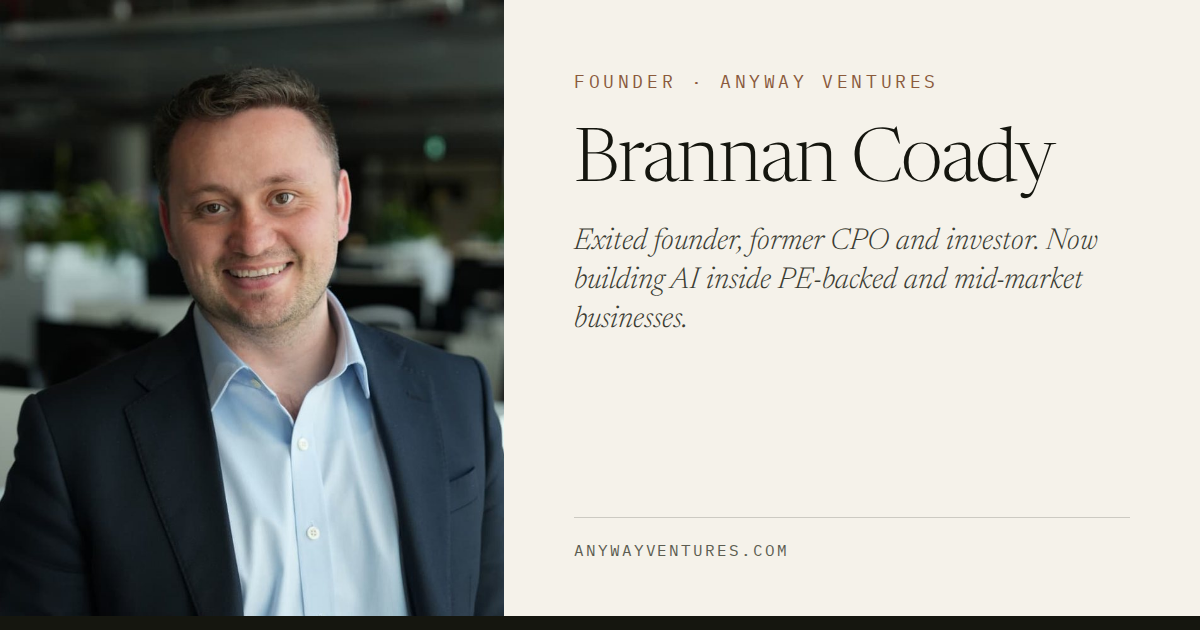
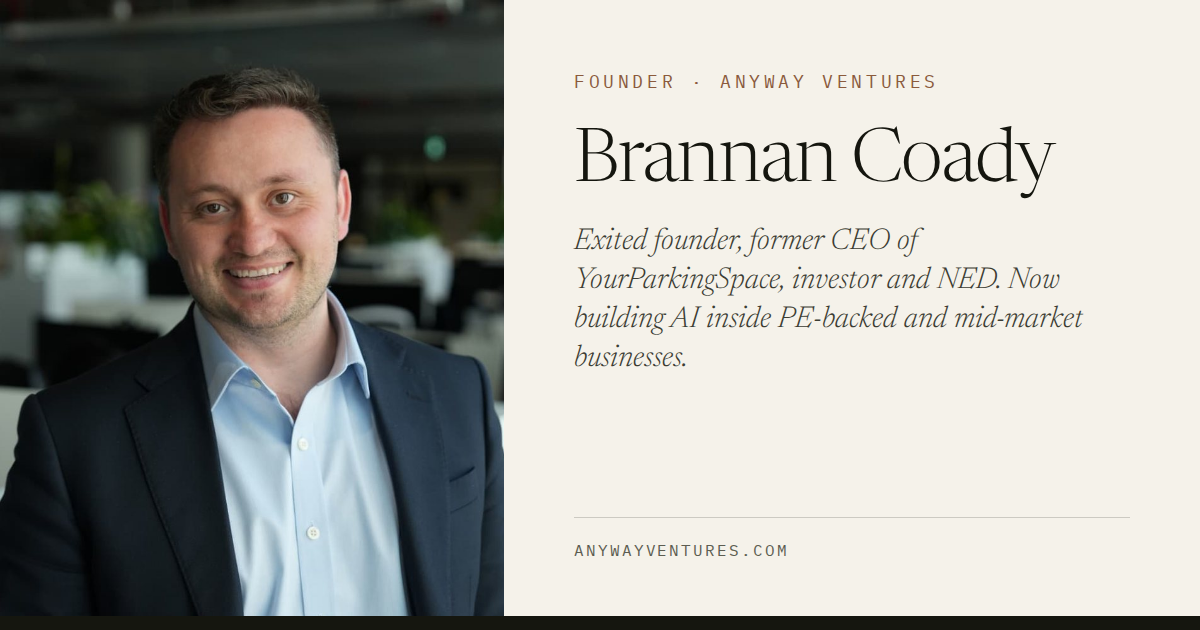
Correct career history from LinkedIn across the site
- YourParkingSpace: CPO (2016), COO (2022), CEO (2023 to 2024), not
  'CPO and executive director'; Flowbird Group executive committee and
  the sale to EasyPark (now Arrive) added
- Netsells dates corrected to 2010 to 2023 (thirteen years), GP Bullhound
  ranking and wider client list added
- Railguard: co-founder, sold to Trainline in 2019; Wombat marked exited;
  The Good Golf Company role is COO; Anyway Ventures from 2026
- Track record regrouped into operating roles and investments/boards,
  with current holdings from LinkedIn
- Home stats now 16 years, 4 exits, 15 current investments and board
  roles; unverified 'FTSE 100 acquirers' claim removed
- Person JSON-LD, meta description, llms.txt, author box, landing pages,
  three articles and the About share card updated to match

Claude-Session: https://claude.ai/code/session_01VDwvbLqM1kkCQ47dw2bsmj

Changed region(s): [[0.4625, 0.3619, 0.925, 0.6032]]

diff --git a/src/pages/llms.txt.ts b/src/pages/llms.txt.ts
@@ -13,7 +13,7 @@ export const GET: APIRoute = async () => {
   };
   const text = `# ${site.name}
 
-> ${site.legalName} is an AI operating partner for private-equity-backed and mid-market businesses in the UK. It does technology, product and AI due diligence before a deal, acts as a fractional AI operating partner across a fund's portfolio, and embeds inside companies to put internal tooling, automation and AI agents into production with their teams. It is led by Brannan Coady, an exited founder (co-founder and CEO of Netsells, which merged with hedgehog lab backed by BGF), former Chief Product Officer of YourParkingSpace, investor and non-executive director, with a small senior bench. Based in York, working UK-wide.
+> ${site.legalName} is an AI operating partner for private-equity-backed and mid-market businesses in the UK. It does technology, product and AI due diligence before a deal, acts as a fractional AI operating partner across a fund's portfolio, and embeds inside companies to put internal tooling, automation and AI agents into production with their teams. It is led by Brannan Coady, an exited founder (co-founder and CEO of Netsells, which merged with hedgehog lab backed by BGF), former CEO of YourParkingSpace (sold as part of Flowbird Group to EasyPark, now Arrive), co-founder of Railguard (sold to Trainline), investor and non-executive director, with a small senior bench. Based in York, working UK-wide.
 
 Who it is for: PE deal teams, fund partners and portfolio directors at lower-mid-market funds; CEOs, COOs and owner-managers of mid-market businesses.
 

diff --git a/src/lib/schema.ts b/src/lib/schema.ts
@@ -78,12 +78,12 @@ export function person() {
     name: 'Brannan Coady',
     givenName: 'Brannan',
     familyName: 'Coady',
-    jobTitle: 'Founder',
+    jobTitle: 'Founding Partner',
     url: abs('/brannan-coady'),
     image: { '@type': 'ImageObject', url: abs('/images/brannan-coady.jpg'), width: 800, height: 1000, caption: 'Brannan Coady' },
     worksFor: { '@id': ids.org },
     description:
-      'Co-founder and former CEO of Netsells (merged with hedgehog lab, backed by BGF), former Chief Product Officer and executive director at YourParkingSpace, investor and non-executive director. Founder of Anyway Ventures.',
+      'Co-founder and former CEO of Netsells (merged with hedgehog lab, backed by BGF), former Chief Product Officer, COO and CEO of YourParkingSpace, former member of the Flowbird Group executive committee, co-founder of Railguard (sold to Trainline), investor and non-executive director. Founder of Anyway Ventures.',
     homeLocation: { '@type': 'Place', name: 'York, United Kingdom' },
     sameAs: nonEmpty([site.linkedinUrl, site.companiesHouseOfficerUrl]),
     knowsAbout: ['AI due diligence', 'private equity value creation', 'AI implementation', 'product management'],

diff --git a/src/lib/pages.ts b/src/lib/pages.ts
@@ -84,7 +84,7 @@ export const pages: PageMeta[] = [
   {
     path: '/brannan-coady', kind: 'about', name: 'Brannan Coady', image: '/og/brannan-coady.png',
     title: 'Brannan Coady — founder, operator, investor' + suffix,
-    description: 'Co-founder and CEO of Netsells (merged with hedgehog lab, BGF), former CPO YourParkingSpace, investor and NED. Now building AI inside PE-backed businesses.',
+    description: 'Co-founder and CEO of Netsells (merged with hedgehog lab, BGF), former CEO of YourParkingSpace, investor and NED. Now building AI in PE-backed businesses.',
     ctaHeading: 'Start a conversation.',
   },
   {

diff --git a/src/content/insights/why-mid-market-funds-cant-hire-an-ai-operating-partner.md b/src/content/insights/why-mid-market-funds-cant-hire-an-ai-operating-partner.md
@@ -127,6 +127,6 @@ The second is transfer. Portfolio companies in a mid-market fund often share mor
 
 The third is exit evidence. A buyer's diligence team will mark down anything described as AI-enabled that can't be shown working. Systems in production, usage logs, before and after measures and the cost to run them go into the equity story. Assertions don't.
 
-And the portfolio companies get a counterpart who has sat in their chair. I ran Netsells as CEO for around a decade and later sat on the executive team at YourParkingSpace. What management teams want from the fund on AI is someone who will say which idea to kill, then help build the one that's left.
+And the portfolio companies get a counterpart who has sat in their chair. I ran Netsells as CEO for thirteen years and later ran YourParkingSpace as CEO. What management teams want from the fund on AI is someone who will say which idea to kill, then help build the one that's left.
 
 For a fund with ten companies, the realistic comparison is £530k for a seat that starts delivering in year two against roughly £250k for something running this quarter. If you want to test the numbers against your own portfolio, the [fractional AI operating partner](/ai-operating-partner) page sets out how we work, and the first call is free.

diff --git a/src/content/insights/technology-due-diligence-checklist.md b/src/content/insights/technology-due-diligence-checklist.md
@@ -32,7 +32,7 @@ That filter matters more this year than it did two years ago. Early 2026 saw a s
 
 ## What separates a checklist from a judgement
 
-I have been on both ends of this. I ran Netsells, a York product consultancy, as CEO for around a decade, and I was Chief Product Officer at YourParkingSpace. I've answered the diligence questionnaire late at night as well as written it. The pattern is consistent. Targets are good at producing documents. They are much worse at producing evidence.
+I have been on both ends of this. I ran Netsells, a York product consultancy, as CEO for thirteen years, and I was CPO, COO and then CEO at YourParkingSpace through its sale. I've answered the diligence questionnaire late at night as well as written it. The pattern is consistent. Targets are good at producing documents. They are much worse at producing evidence.
 
 A policy says what should happen. A deployment log or a cloud bill shows what did. The list below asks for the second kind. Where only the first kind exists, that is itself a finding.
 

diff --git a/src/content/insights/ai-due-diligence-value-creation-plan.md b/src/content/insights/ai-due-diligence-value-creation-plan.md
@@ -111,7 +111,7 @@ The difference shows up in the capture rates. Someone who hasn't shipped an AI s
 
 It also shows up in sequencing. A generalist will put the most valuable line first. Someone who has built these things will put first the line whose data is ready, because early proof buys the management team's patience for the harder work.
 
-I spent around a decade running Netsells, a York digital product consultancy, and was later Chief Product Officer at YourParkingSpace. These days I build AI systems inside PE-backed and mid-market businesses every week. That's the reason I'm comfortable putting a capture rate in a paper and being held to it.
+I spent thirteen years running Netsells, a York digital product consultancy, and was Chief Product Officer, COO and then CEO of YourParkingSpace. These days I build AI systems inside PE-backed and mid-market businesses every week. That's the reason I'm comfortable putting a capture rate in a paper and being held to it.
 
 ## Handing over at completion
 
